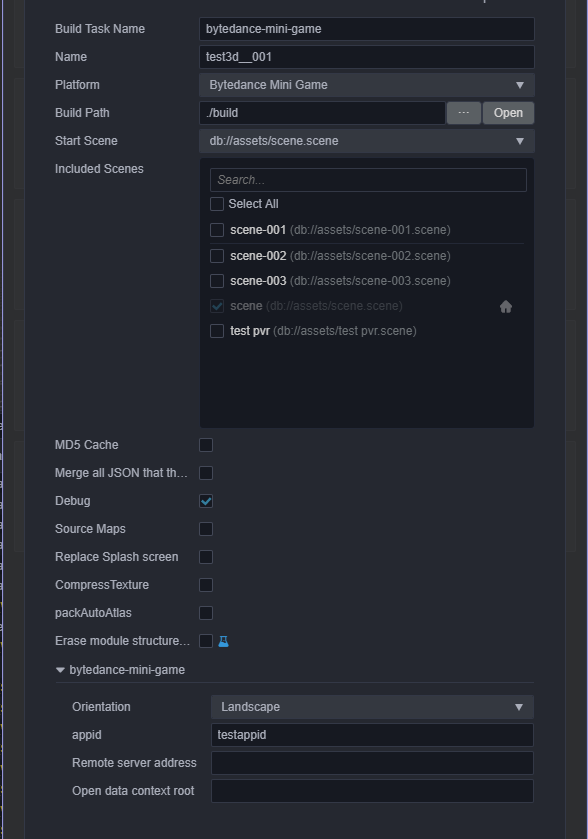
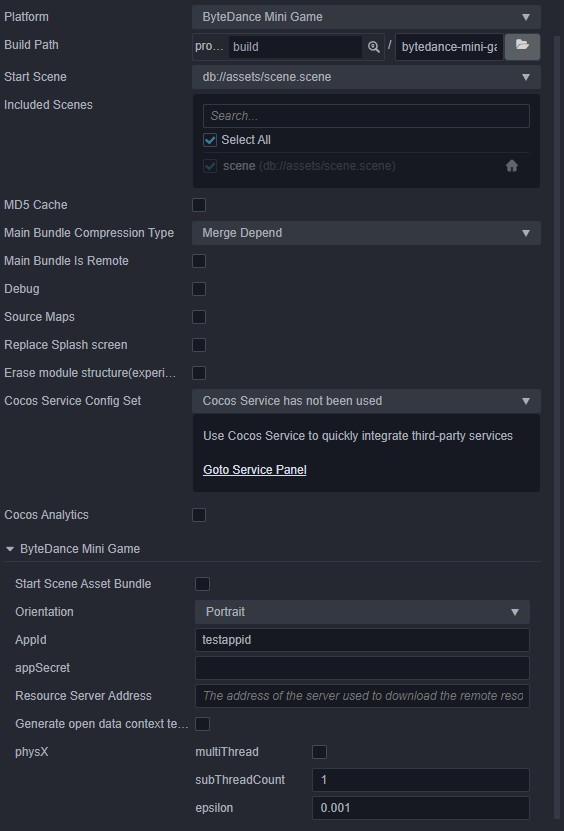
en too

diff --git a/en/editor/publish/publish-bytedance-mini-game.md b/en/editor/publish/publish-bytedance-mini-game.md
@@ -29,9 +29,13 @@ The game submission, review and release process of a mini-game needs to comply w
 Options | Optional or not | Default | Explanation
 - | - | - | -
 **appid** | Required | `testId` | The appid of the ByteDance Mini Games, it will be written to `project.config.json` file.
+**appSecret** | Currently only required when using PhysX | Empty | the AppSecret corresponding to the appid of the ByteDance Mini Games.
 **Remote server address** | Optional | Empty | The remote server address. Resources will then be obtained from this address.
 **Open data context root** | Optional | Empty | If an Open Data Context exists, use this root to specify the relative path of the Open Data Context folder in the build directory so that the directory is not overwritten or modified during the build.
 **Orientation** | Required | `landscape` | Device orientation, it will be written to `game.json` file.
+**physX.multiThread**| Optional | `false` | Only valid when using PhysX, whether to use multi-threaded mode.
+**physX.subThreadCount** | Optional | `1` | Only valid when using PhysX and use multi-threaded mode, the number of child threads.
+**physX.epsilon** | Optional | `0.001` | Only valid when using PhysX, the tolerance error.
 
 ## Asset Management for ByteDance Mini Game Environment
 
@@ -73,6 +77,12 @@ Currently, the size of the ByteDance Mini Game subpackage has following restrict
 - The size of a single subpackage/main package cannot exceed **4 M**
 
 For details, please refer to the [ByteDance Subpackage Loading Official Documentation [zh]](https://microapp.bytedance.com/docs/zh-CN/mini-game/develop/framework/subpackages/introduction)
+
+## Native Physics
+
+After the **v3.2** version, Cocos Creator has added the relevant parameters for configuring native physics in the build panel of the ByteDance platform (for details, please see the introduction of build options). The way to enable native physics is in While building the ByteDance Mini Game project, choose the **PhysX** physics module.
+
+But it should be noted that at present, ByteDance native physics only exists in the Android version of TikTok, and the version must be greater than or equal to **v16.3**, and the ByteDance DevTools does not support running native physics, so only Can preview and debug on real machine.
 
 ## Reference documentation
 

diff --git a/zh/editor/publish/publish-bytedance-mini-game.md b/zh/editor/publish/publish-bytedance-mini-game.md
@@ -74,7 +74,7 @@
 
 我们建议用户只保存脚本文件在小游戏包内，其他资源都从远程服务器下载。Cocos Creator 已经帮用户做好了远程资源的下载、缓存和版本管理，详情可参考 [缓存管理器](../../asset/cache-manager.md)。
 
-## 字节原生物理
+## 原生物理
 
 在 **v3.2** 版本后，Cocos Creator 在字节平台的构建面板中增加了配置字节原生物理的相关参数（详细说明请看构建选项介绍），开启字节原生物理的方式是在构建字节小游戏项目的同时，选择 **PhysX** 物理模块。
 
